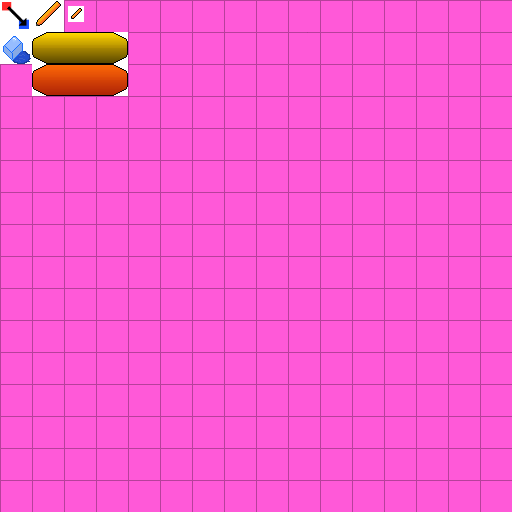
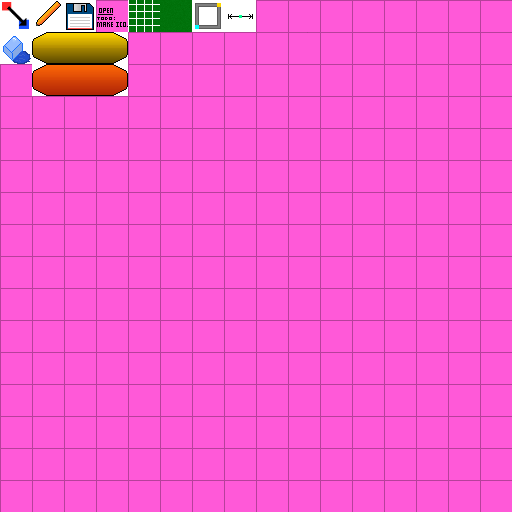
Added box drawing tool

Changed region(s): [[0.125, 0.0, 0.5, 0.0625]]

diff --git a/game/screen/ScreenMapEditor.java b/game/screen/ScreenMapEditor.java
@@ -5,6 +5,7 @@ import game.MathHelper;
 import game.SpriteSheet;
 import game.entity.Entity;
 import game.mapeditor.tools.Tool;
+import game.mapeditor.tools.ToolBox;
 import game.mapeditor.tools.ToolPencil;
 import game.mapeditor.tools.ToolReplace;
 import game.tile.Tile;
@@ -28,10 +29,10 @@ public class ScreenMapEditor extends Screen {
 	public HashMap<Rectangle, Tile> tiles = new HashMap<Rectangle, Tile>();
 	private ArrayList<Entity> entities = new ArrayList<Entity>();
 	private int openMenu = 0;
-	private boolean isPlacingTile = true;
+	private boolean isPlacingTile = true, showGrid = true;
 	
 	private Tool currentTool = null;
-	public Tile currentTile = null;
+	public Tile currentTile = null; 
 	
 	
 	public ScreenMapEditor(int width, int height, SpriteSheet sheet) {
@@ -57,8 +58,12 @@ public class ScreenMapEditor extends Screen {
 		}
 		toolRegistry.add(new ToolPencil("Pencil", 1));
 		toolRegistry.add(new ToolReplace("Replacer", 0));
+		toolRegistry.add(new ToolBox("Rectangle", 6));
 		addButton("selectTile", new Rectangle(10, 520, 64, 64));
 		addButton("selectTool", new Rectangle(104, 520, 64, 64));
+		addButton("toggleGrid", new Rectangle(250,579,32,32));
+		addButton("save", new Rectangle(250,515,32,32));
+		addButton("open", new Rectangle(250,547,32,32));
 		
 		int i = 0;
 		for(Tool t : toolRegistry){
@@ -120,16 +125,19 @@ public class ScreenMapEditor extends Screen {
 			g.drawImage(game.sheetTiles.getImage(tile.sprite), rec.x,
 					rec.y, rec.width, rec.height, game);
 			g.setColor(Color.white);
-			g.drawRect(rec.x, rec.y,32,32);
+			if(showGrid)g.drawRect(rec.x, rec.y,32,32);
 		}
 	}
 	
 	private void drawUI(Graphics g)
 	{
 		g.setColor(new Color(255,255,255,155));
-		g.fillRect(0, 500, Game.WIDTH, 100);
+		g.fillRect(0, 514, Game.WIDTH, 96);
 		drawTileSelection(10, 520, currentTile.sprite,"Tile", g);
 		drawToolSelection(104, 520, currentTool.getSprite(),"Tool", g);
+		g.drawImage(game.sheetUI.getImage(2),250,515,32,32,game);
+		g.drawImage(game.sheetUI.getImage(3),250,547,32,32,game);
+		g.drawImage(game.sheetUI.getImage(showGrid ? 5 : 4),250,579,32,32,game);
 		if(openMenu == MENU_TILE)
 		{
 			drawMenuBox(10,320,400,200, g);
@@ -141,7 +149,7 @@ public class ScreenMapEditor extends Screen {
 				g.drawRect(13+(42*x), 225+(42*y), 33, 34);
 				g.setColor(new Color(0,0,0,135));
 				g.fillRect(13+(42*x), 225+(42*y), 33, 34);
-				g.drawImage(game.sheetTiles.getImage(Tile.tiles[i].sprite),14+(42*x),227+(42*y),32,32,game);
+				g.drawImage(game.sheetTiles.getImage(t.sprite),14+(42*x),227+(42*y),32,32,game);
 				i++;
 				x++;
 				if(45*x > 400)
@@ -166,6 +174,7 @@ public class ScreenMapEditor extends Screen {
 				i++;
 			}
 		}
+
 	}
 	
 	@Override
@@ -218,6 +227,11 @@ public class ScreenMapEditor extends Screen {
 			openMenu = openMenu == MENU_TOOL ? MENU_NONE : MENU_TOOL;
 			return;
 		}
+		if(name == "toggleGrid")
+		{
+			showGrid = !showGrid;
+			return;
+		}
 		if(openMenu == MENU_TOOL)
 		{
 			currentTool = toolRegistry.get(Integer.parseInt(name));
@@ -229,6 +243,7 @@ public class ScreenMapEditor extends Screen {
 			currentTile = Tile.tiles[Integer.parseInt(name)];
 			openMenu = MENU_NONE;
 		}
+
 
 	}
 

diff --git a/game/mapeditor/tools/ToolBox.java b/game/mapeditor/tools/ToolBox.java
@@ -1,0 +1,65 @@
+package game.mapeditor.tools;
+
+import game.screen.ScreenMapEditor;
+import game.tile.Tile;
+
+import java.awt.Point;
+
+public class ToolBox extends Tool{
+
+	
+	private boolean hasPlacedFirstPoint = false;
+	private Point point1, point2;
+	
+	
+	public ToolBox(String toolName, int sprite) {
+		super(toolName, sprite);
+	}
+	
+	
+	@Override
+	public void onToolUsed(int x, int y, ScreenMapEditor screen)
+	{
+		if(!hasPlacedFirstPoint)
+		{
+			point1 = new Point(x, y);
+			screen.setTileAt(x, y, Tile.tiles[3]);
+			hasPlacedFirstPoint = true;
+			return;
+			
+		}
+		if(hasPlacedFirstPoint)
+		{
+			point2 = new Point(x, y);
+			
+			for(int cy = point1.y-32; cy != point2.y; cy--)
+			{
+				screen.setTileAt(point1.x, cy, Tile.tiles[10]);
+				screen.setTileAt(point2.x, cy, Tile.tiles[10]);
+			}
+			screen.setTileAt(x, y, Tile.tiles[3]);
+			for(int cx = point1.x+32; cx < point2.x-32; cx++)
+			{
+				screen.setTileAt(cx, point1.y, Tile.tiles[7]);
+				screen.setTileAt(cx, point2.y, Tile.tiles[7]);
+			}
+			
+			screen.setTileAt(point1.x, point1.y, Tile.tiles[3]);
+			screen.setTileAt(point2.x, point1.y, Tile.tiles[4]);
+			screen.setTileAt(point2.x, point2.y, Tile.tiles[5]);
+			screen.setTileAt(point1.x, point2.y, Tile.tiles[6]);
+			
+			
+			
+		
+		
+		
+			
+			hasPlacedFirstPoint = false;
+			point1 = null;
+			point2 = null;
+			return;
+		}
+	}
+
+}
